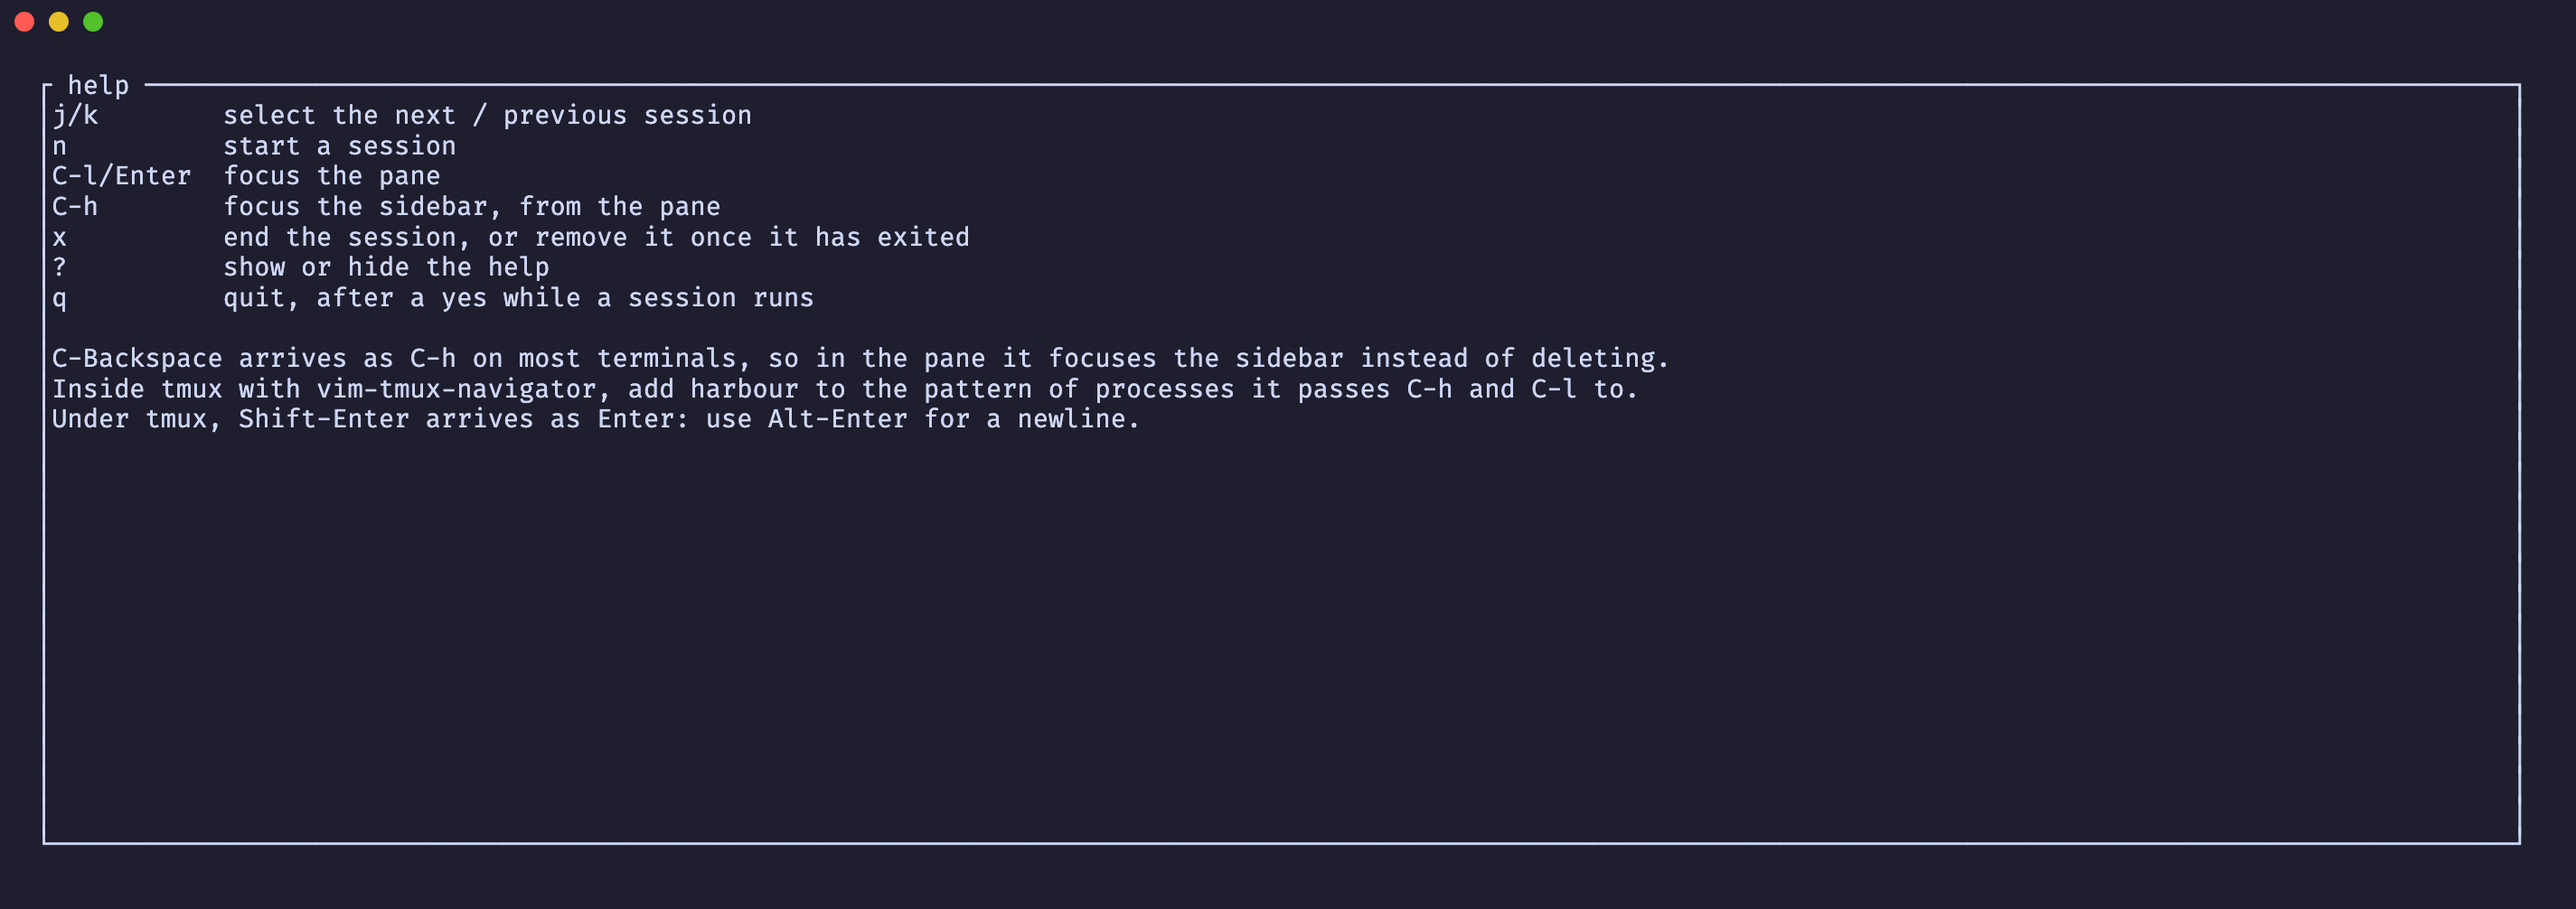
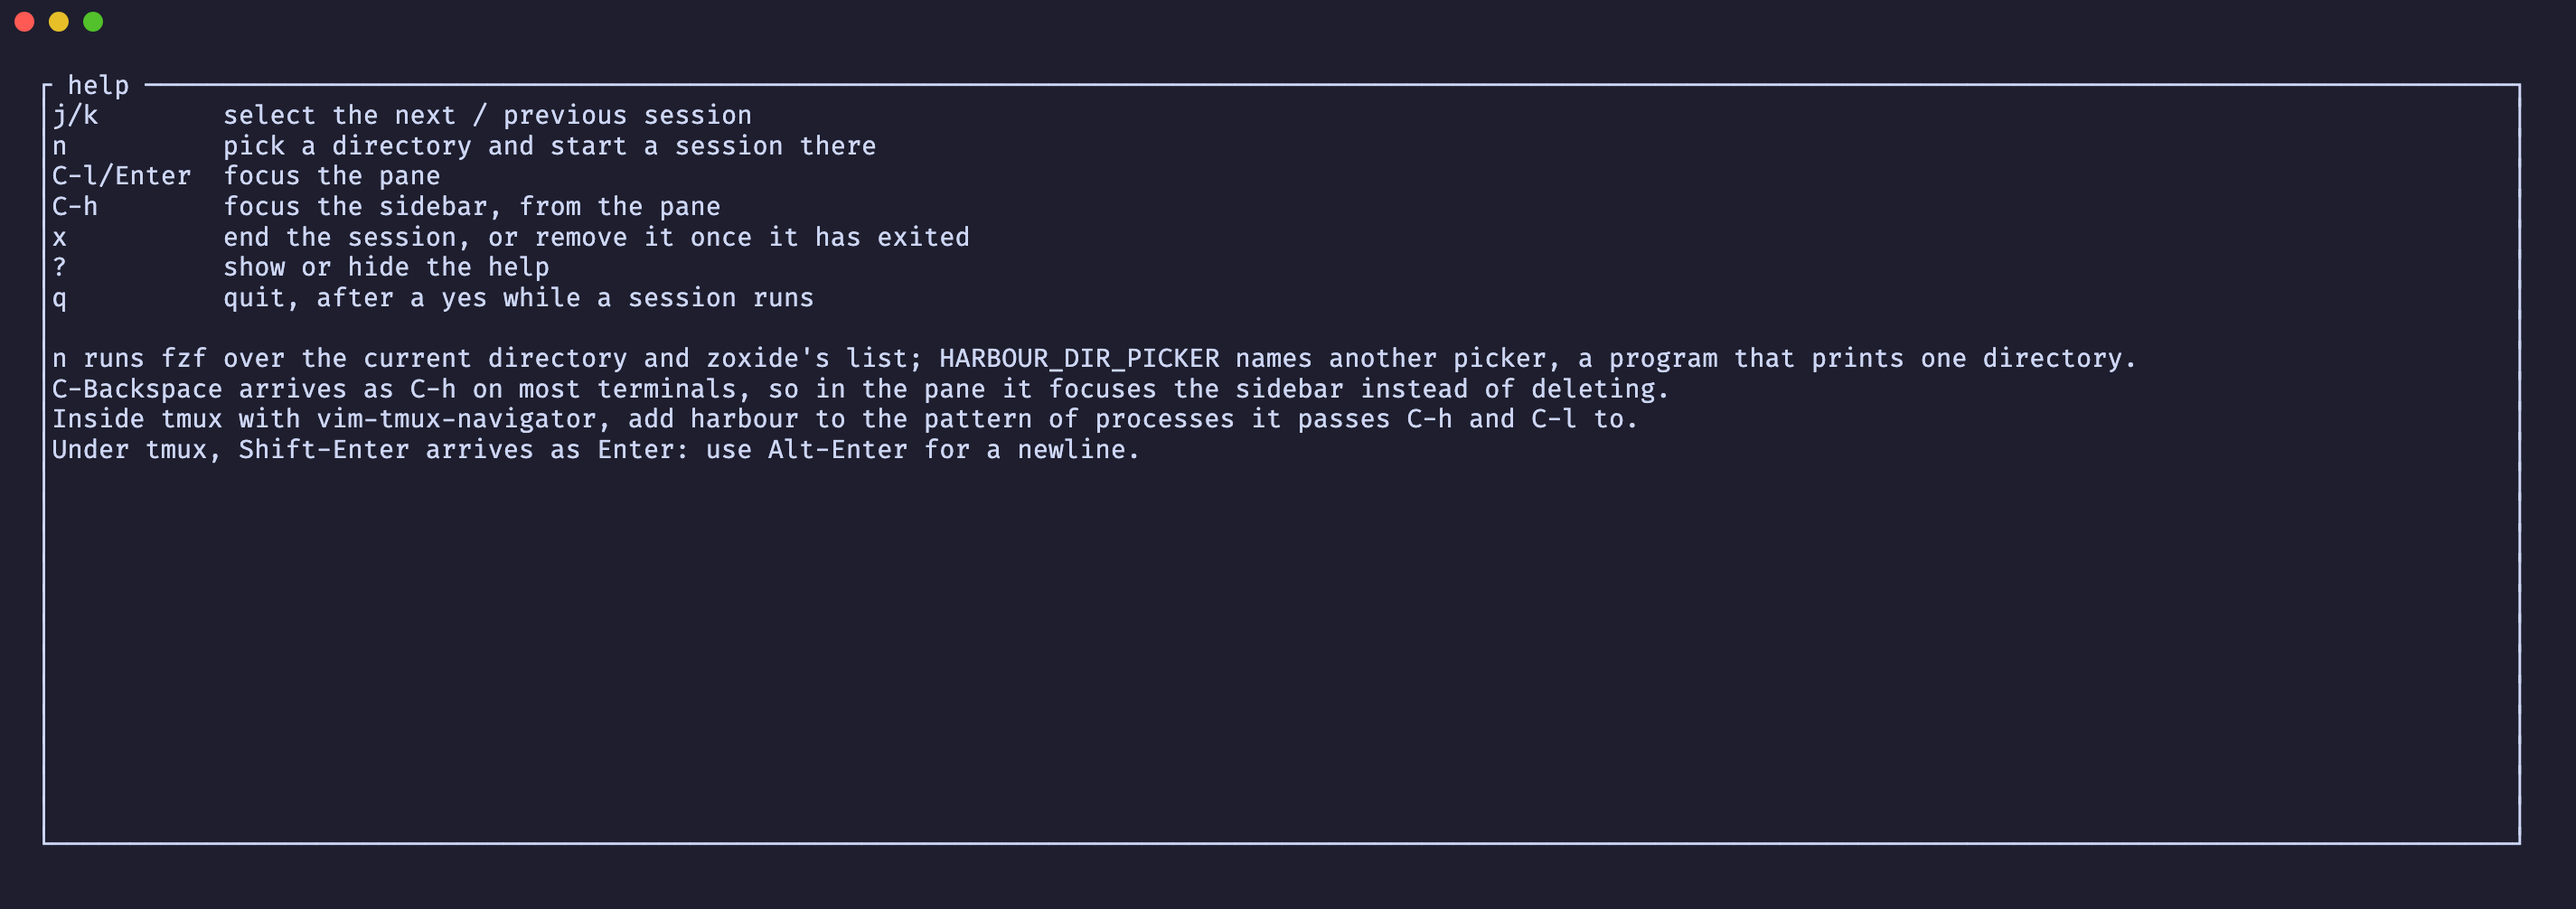
Give the demo a picker over made-up directories and shoot it

Changed region(s): [[0.0312, 0.3698, 0.8119, 0.5239], [0.0937, 0.1541, 0.3435, 0.1849]]

diff --git a/tests/e2e/main.rs b/tests/e2e/main.rs
@@ -8,6 +8,10 @@ use harbour::tui::{DIR_PICKER, SESSION_COMMAND};
 const AGENT: &str = concat!(env!("CARGO_MANIFEST_DIR"), "/tests/fixtures/agent.sh");
 const RAW_AGENT: &str = concat!(env!("CARGO_MANIFEST_DIR"), "/tests/fixtures/raw-agent.sh");
 const PICKER: &str = concat!(env!("CARGO_MANIFEST_DIR"), "/tests/fixtures/picker.sh");
+const FAKE_FZF_PATH: &str = concat!(
+    env!("CARGO_MANIFEST_DIR"),
+    "/tests/fixtures/fzf:/usr/bin:/bin"
+);
 
 #[test]
 #[ignore]
@@ -224,6 +228,20 @@ fn the_demo_shows_made_up_sessions_one_of_them_exited() {
         screen.contains("fix the flaky retry test in acme/api"),
         "{screen}"
     );
+}
+
+#[test]
+#[ignore]
+fn n_in_the_demo_lists_made_up_directories_in_fzf() {
+    let home = tempfile::tempdir().unwrap();
+    let server = Server::start("demo-picker", 160, 20);
+    server.run(home.path(), &[("PATH", FAKE_FZF_PATH)], &["--demo"]);
+    server.wait_for_screen("● acme-api 3");
+    server.send_keys(&["n"]);
+
+    let screen = server.wait_for_screen_all(&["acme fzf lists:", "/home/acme/web"]);
+    assert!(screen.contains("acme fzf lists:"), "{screen}");
+    assert!(screen.contains("/home/acme/web"), "{screen}");
 }
 
 struct Server {

diff --git a/src/demo.rs b/src/demo.rs
@@ -1,3 +1,5 @@
+use crate::picker::Picker;
+
 const WORKING: &str = r#"printf '\033[38;5;209m*\033[0m \033[1macme agent\033[0m in ~/%s\n\n' "${PWD##*/}"
 printf '\033[2m>\033[0m fix the flaky retry test in acme/api\n\n'
 printf '\033[38;5;114m*\033[0m Read src/retry.rs\n'
@@ -8,6 +10,15 @@ exec sleep 86400"#;
 
 const FAILED: &str = r#"printf 'acme agent: could not reach acme/web\n'
 exit 1"#;
+
+const PLACES: &str = r#"printf '%s\n' /home/acme/api /home/acme/web /home/acme/infra /home/acme/docs /home/acme/api/crates/retry"#;
+
+pub fn picker() -> Picker {
+    Picker::Fuzzy {
+        fzf: vec!["fzf".to_string()],
+        list: script(PLACES),
+    }
+}
 
 pub fn working() -> Vec<String> {
     script(WORKING)

diff --git a/src/app.rs b/src/app.rs
@@ -85,7 +85,7 @@ impl App {
     }
 
     pub fn demo() -> App {
-        let mut app = App::new(demo::working());
+        let mut app = App::with_picker(demo::working(), demo::picker());
         app.start();
         app.start_with(&demo::failed());
         app.start();
